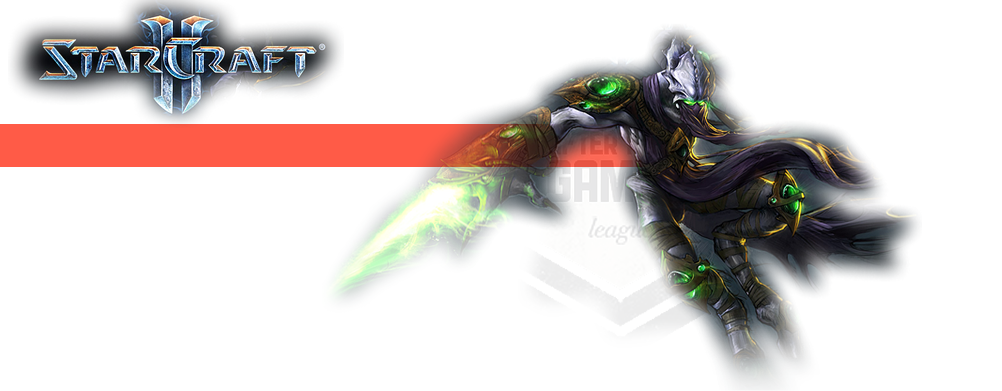
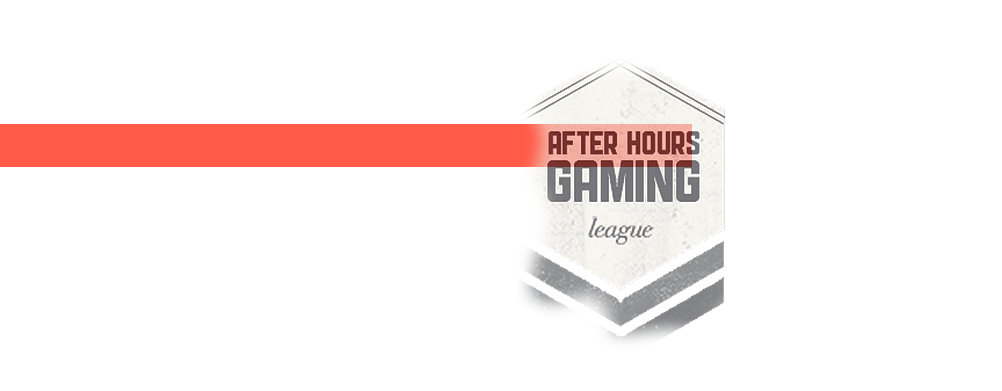
Add generic homepage top

Changed region(s): [[0.3403, 0.0614, 0.9281, 0.9821], [0.0, 0.0, 0.3403, 0.3069]]

diff --git a/ahgl/static/css/layout.css b/ahgl/static/css/layout.css
@@ -1377,6 +1377,13 @@ div#static-navheader a {
 	padding-top: 135px;
 	padding-bottom: 15px;
 }
+.ahgl2-opener.sc2 {
+	height: 160px;
+	background:url("../images/homepage-opener-sc2.png") no-repeat;
+	border-bottom: #333 1px solid;
+	padding-top: 135px;
+	padding-bottom: 15px;
+}
 .ahgl2-opener.lol {
 	background:url("../images/homepage-opener_lol.png") no-repeat;
 	padding-top: 95px;
